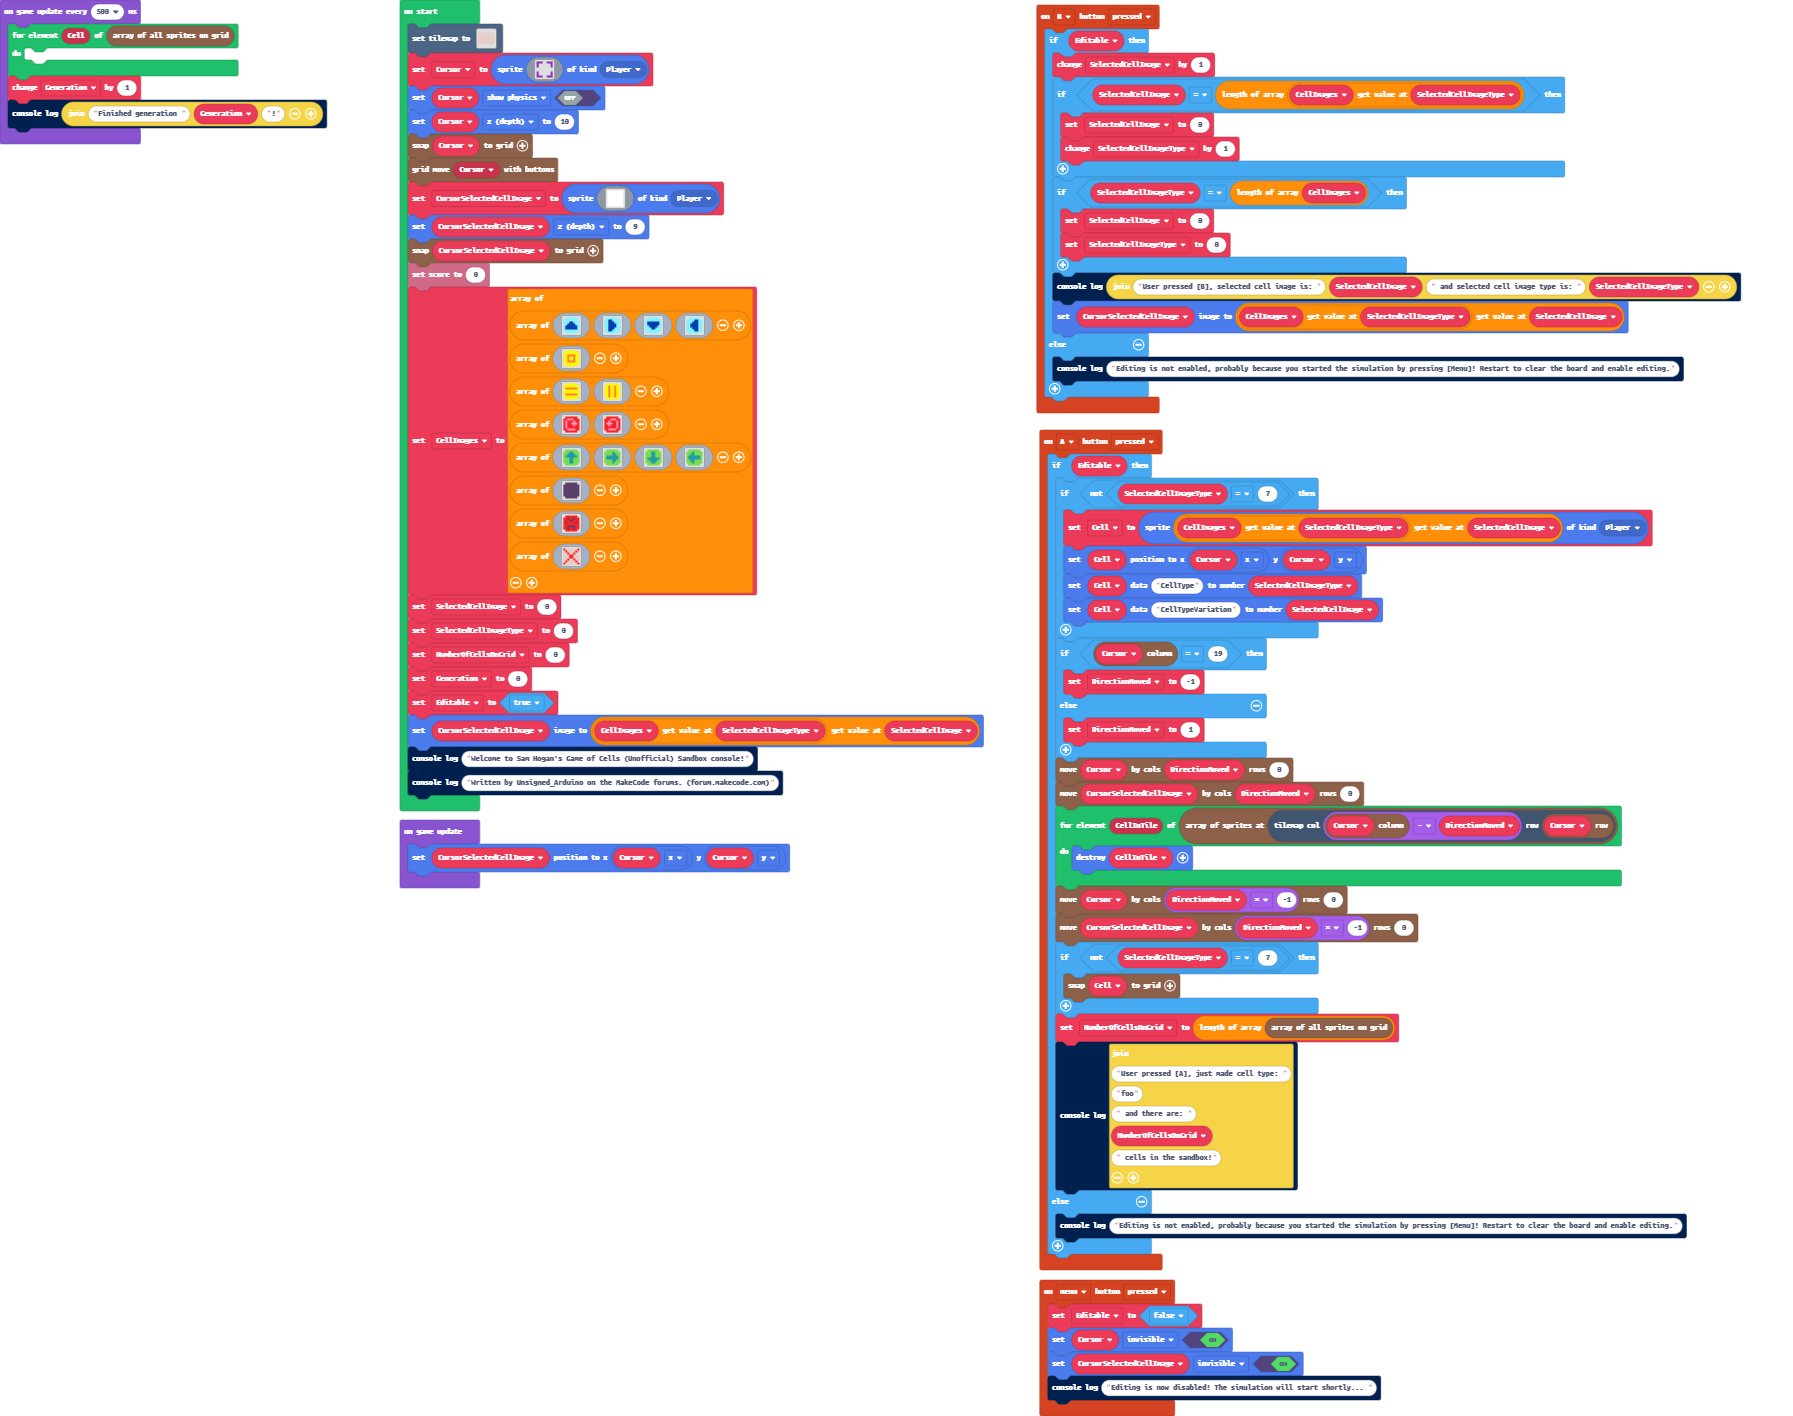
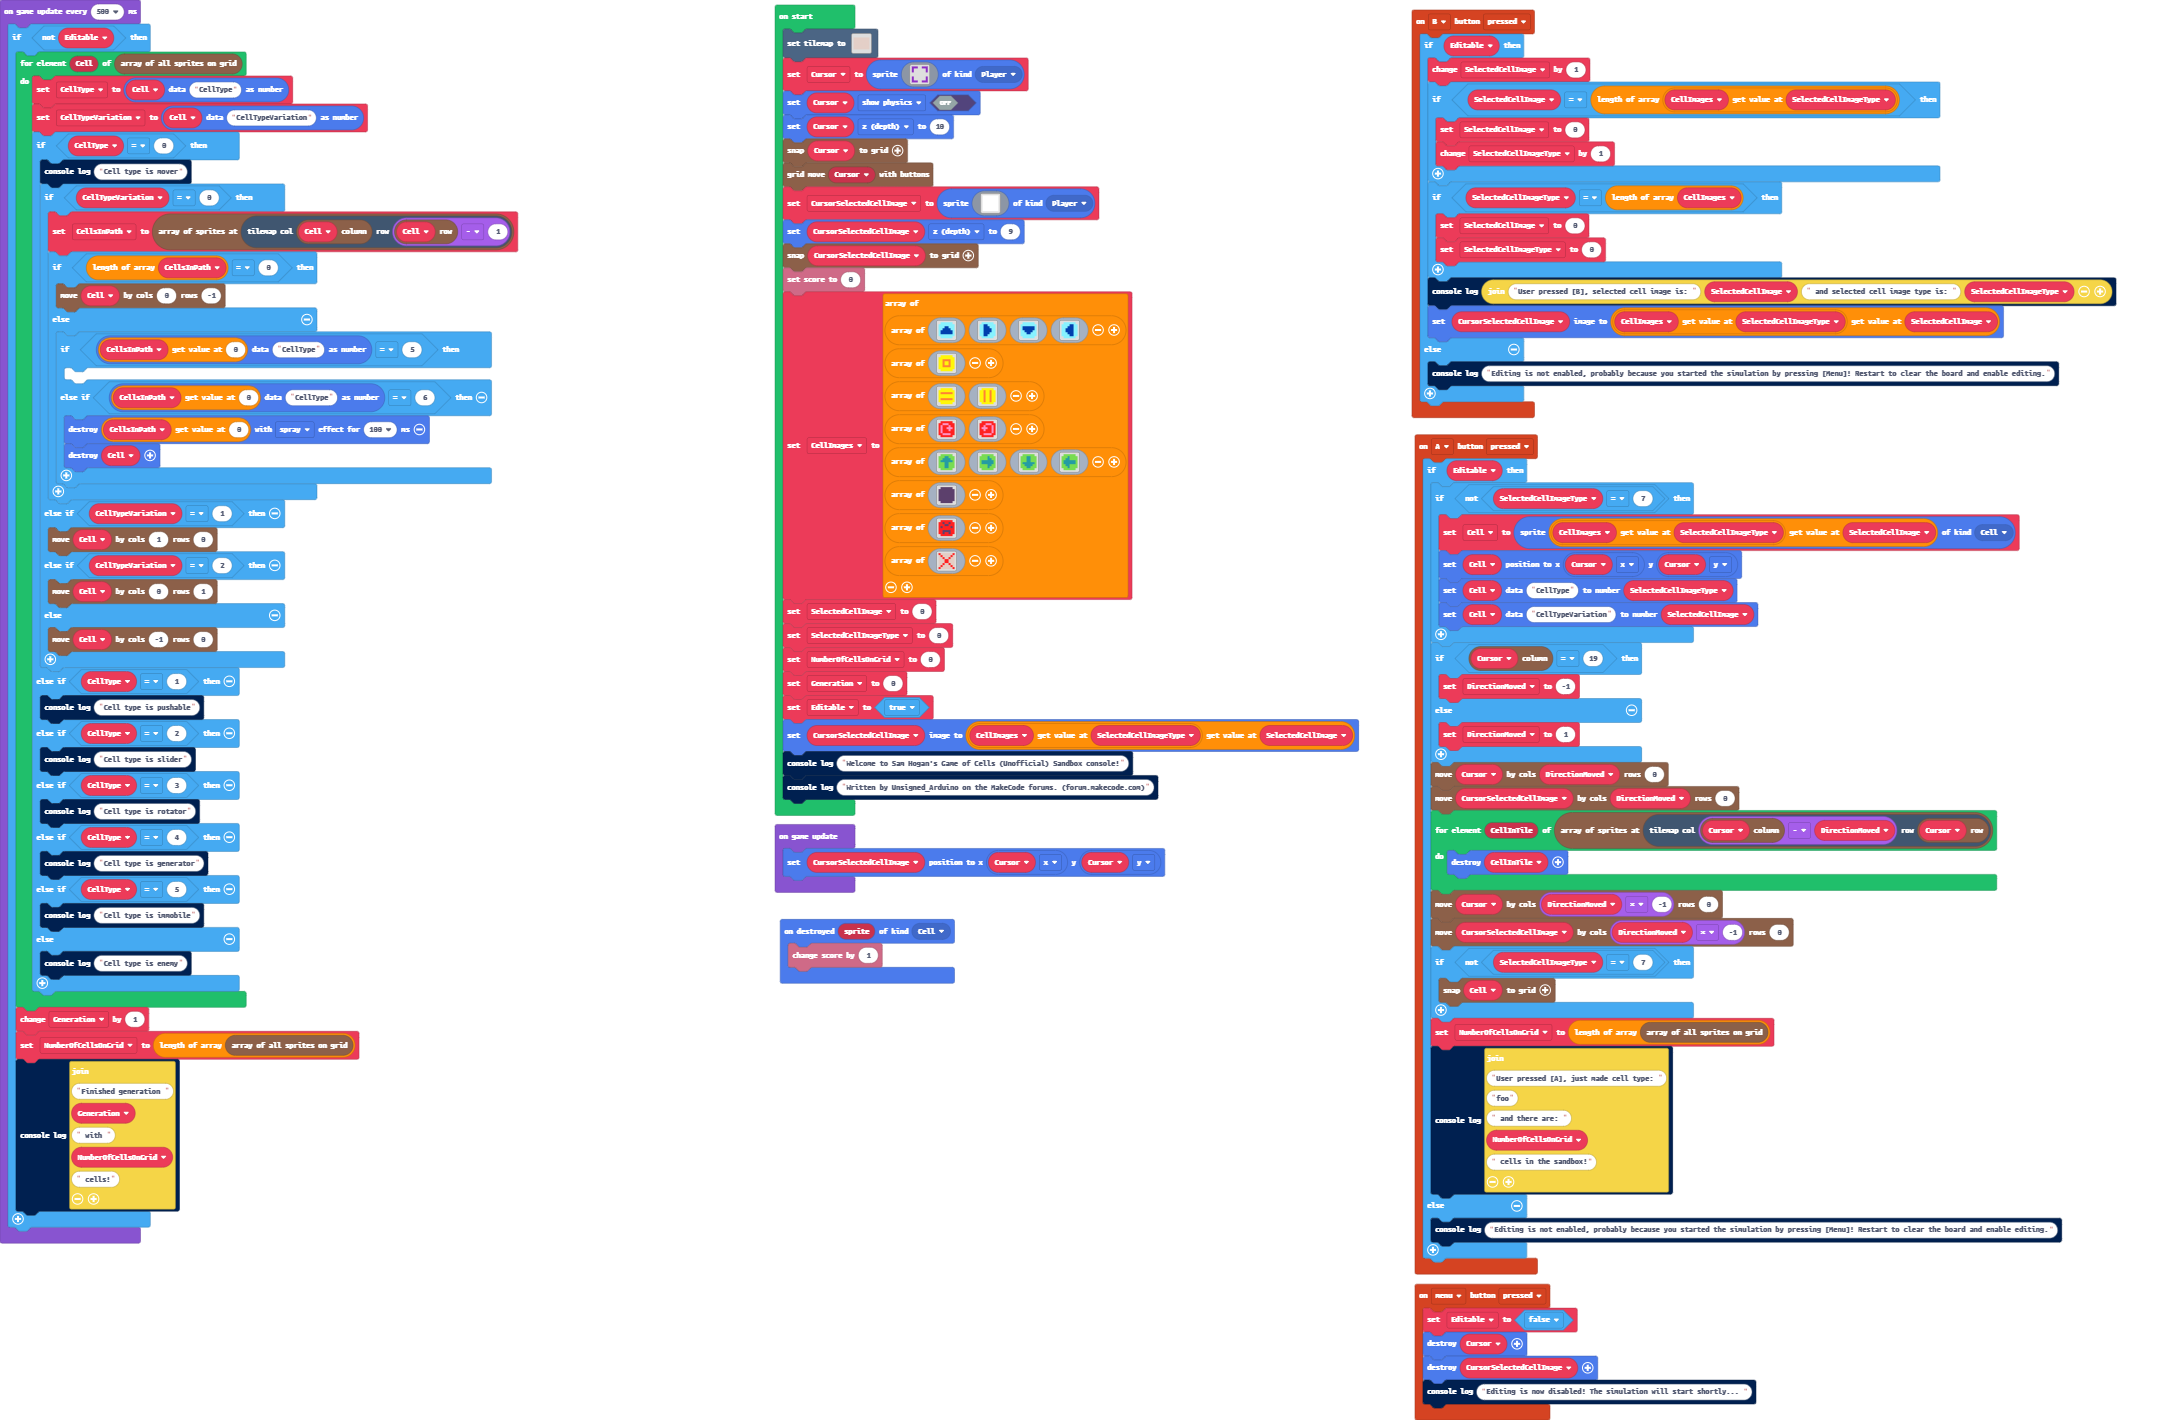
North-facing movers can now destroy enemies and stop at immobiles

diff --git a/main.ts b/main.ts
@@ -1,3 +1,6 @@
+namespace SpriteKind {
+    export const Cell = SpriteKind.create()
+}
 controller.B.onEvent(ControllerButtonEvent.Pressed, function () {
     if (Editable) {
         SelectedCellImage += 1
@@ -18,7 +21,7 @@ controller.B.onEvent(ControllerButtonEvent.Pressed, function () {
 controller.A.onEvent(ControllerButtonEvent.Pressed, function () {
     if (Editable) {
         if (!(SelectedCellImageType == 7)) {
-            Cell = sprites.create(CellImages[SelectedCellImageType][SelectedCellImage], SpriteKind.Player)
+            Cell = sprites.create(CellImages[SelectedCellImageType][SelectedCellImage], SpriteKind.Cell)
             Cell.setPosition(Cursor.x, Cursor.y)
             sprites.setDataNumber(Cell, "CellType", SelectedCellImageType)
             sprites.setDataNumber(Cell, "CellTypeVariation", SelectedCellImage)
@@ -44,12 +47,18 @@ controller.A.onEvent(ControllerButtonEvent.Pressed, function () {
         console.log("Editing is not enabled, probably because you started the simulation by pressing [Menu]! Restart to clear the board and enable editing.")
     }
 })
+sprites.onDestroyed(SpriteKind.Cell, function (sprite) {
+    info.changeScoreBy(1)
+})
 controller.menu.onEvent(ControllerButtonEvent.Pressed, function () {
     Editable = false
-    Cursor.setFlag(SpriteFlag.Invisible, true)
-    CursorSelectedCellImage.setFlag(SpriteFlag.Invisible, true)
+    Cursor.destroy()
+    CursorSelectedCellImage.destroy()
     console.log("Editing is now disabled! The simulation will start shortly... ")
 })
+let CellsInPath: Sprite[] = []
+let CellTypeVariation = 0
+let CellType = 0
 let DirectionMoved = 0
 let Cell: Sprite = null
 let Editable = false
@@ -269,9 +278,47 @@ game.onUpdate(function () {
     CursorSelectedCellImage.setPosition(Cursor.x, Cursor.y)
 })
 game.onUpdateInterval(500, function () {
-    for (let Cell of grid.allSprites()) {
-    	
+    if (!(Editable)) {
+        for (let Cell of grid.allSprites()) {
+            CellType = sprites.readDataNumber(Cell, "CellType")
+            CellTypeVariation = sprites.readDataNumber(Cell, "CellTypeVariation")
+            if (CellType == 0) {
+                console.log("Cell type is mover")
+                if (CellTypeVariation == 0) {
+                    CellsInPath = grid.getSprites(tiles.getTileLocation(grid.spriteCol(Cell), grid.spriteRow(Cell) - 1))
+                    if (CellsInPath.length == 0) {
+                        grid.move(Cell, 0, -1)
+                    } else {
+                        if (sprites.readDataNumber(CellsInPath[0], "CellType") == 5) {
+                        	
+                        } else if (sprites.readDataNumber(CellsInPath[0], "CellType") == 6) {
+                            CellsInPath[0].destroy(effects.spray, 100)
+                            Cell.destroy()
+                        }
+                    }
+                } else if (CellTypeVariation == 1) {
+                    grid.move(Cell, 1, 0)
+                } else if (CellTypeVariation == 2) {
+                    grid.move(Cell, 0, 1)
+                } else {
+                    grid.move(Cell, -1, 0)
+                }
+            } else if (CellType == 1) {
+                console.log("Cell type is pushable")
+            } else if (CellType == 2) {
+                console.log("Cell type is slider")
+            } else if (CellType == 3) {
+                console.log("Cell type is rotator")
+            } else if (CellType == 4) {
+                console.log("Cell type is generator")
+            } else if (CellType == 5) {
+                console.log("Cell type is immobile")
+            } else {
+                console.log("Cell type is enemy")
+            }
+        }
+        Generation += 1
+        NumberOfCellsOnGrid = grid.allSprites().length
+        console.log("Finished generation " + Generation + " with " + NumberOfCellsOnGrid + " cells!")
     }
-    Generation += 1
-    console.log("Finished generation " + Generation + "!")
 })
